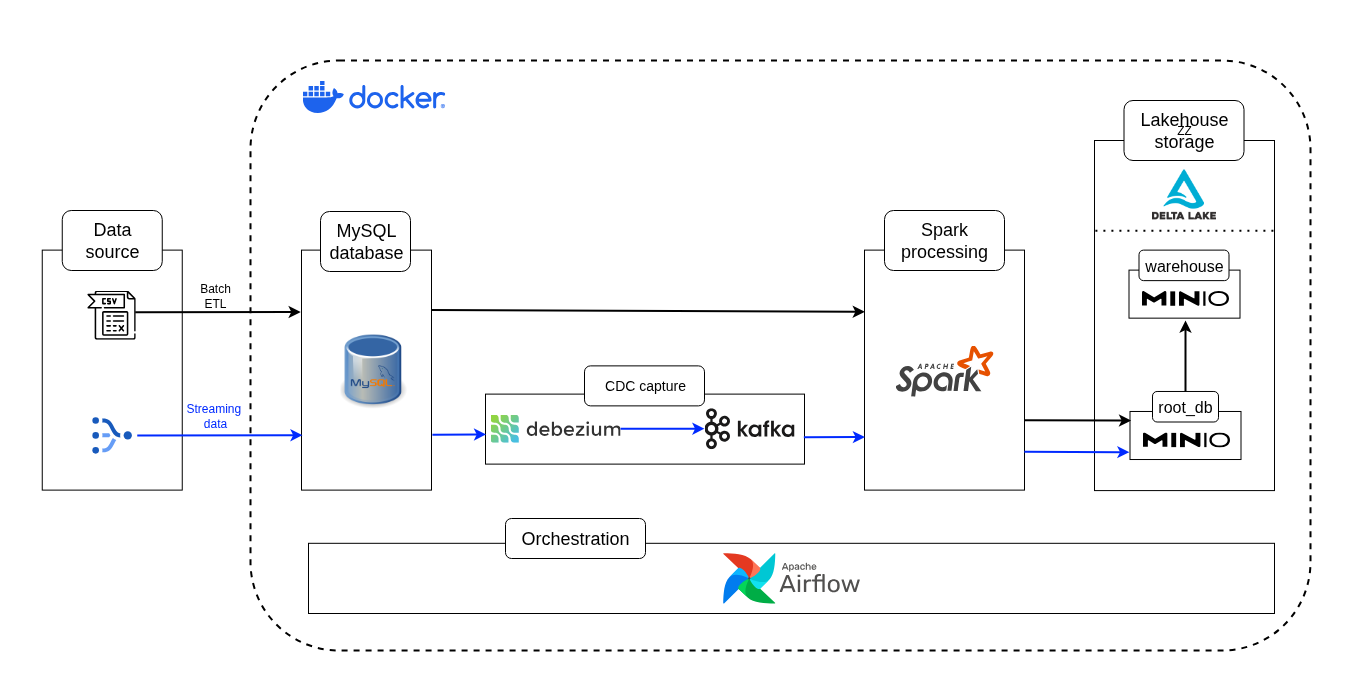
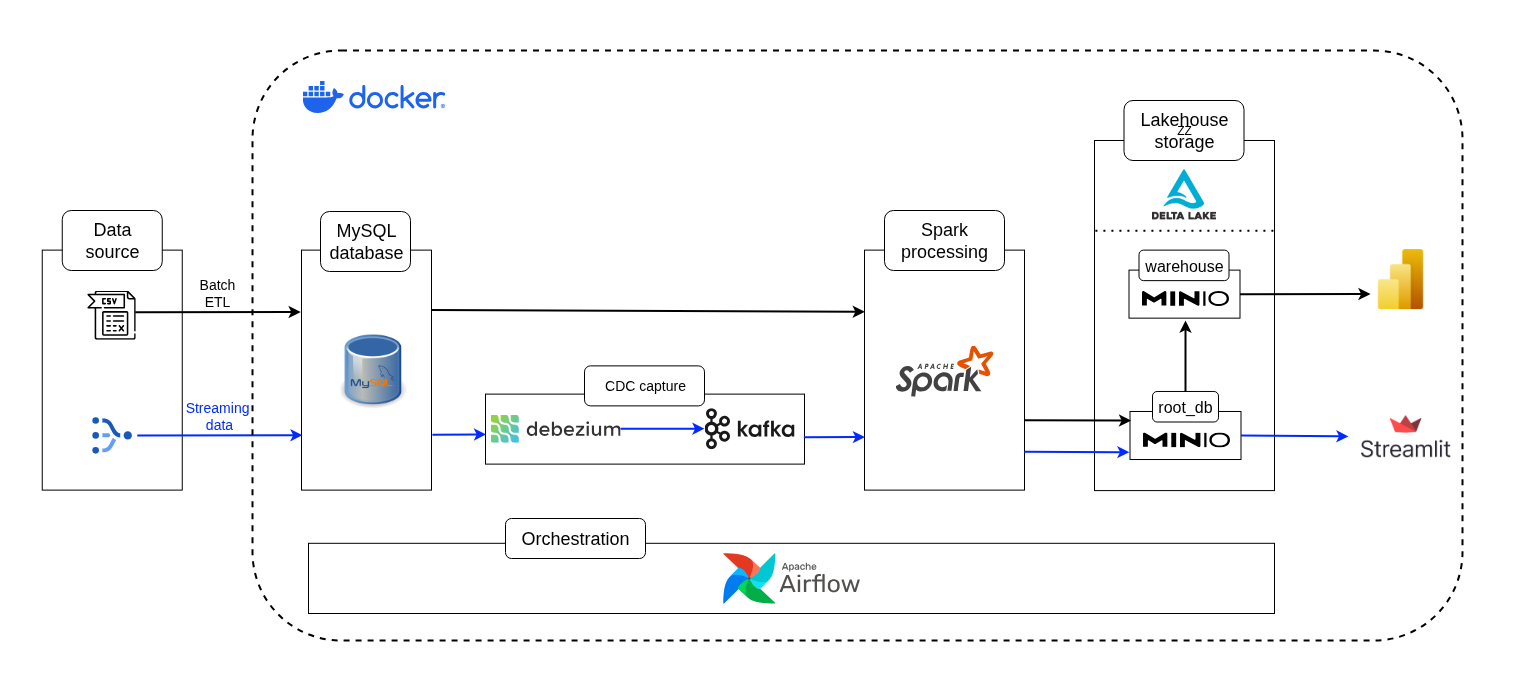
modify README

diff --git a/README.md b/README.md
@@ -55,6 +55,7 @@ Streaming Data ──▶ MySQL ──▶ Debezium ──▶ Kafka ──▶ Spar
 | **Data Lake** | MinIO, Delta Lake | latest, 3.1.0 | Stores financial data as structured, versioned Delta tables. |
 | **Auxiliary Tools** | Kafka UI, MinIO Console | latest | Web UIs for managing and monitoring Kafka and MinIO. |
 | **Workflow Orchestration** | Apache Airflow | 2.8+ | Orchestrates and automates the finance analytics workflows, including batch processing and infrastructure management. |
+| **Dashboard** | Streamlit | latest | Interactive web application for real-time financial analytics and visualizations. |
 
 ## 5. Directory Structure
 ```
@@ -66,6 +67,9 @@ Streaming Data ──▶ MySQL ──▶ Debezium ──▶ Kafka ──▶ Spar
 │   └── database/            # Database schemas, scripts, and initialization data.
 │       ├── schema.sql       # SQL statements for the initial database schema.
 │       └── scripts/         # Database maintenance and initialization scripts.
+│   └── streamlit/           # Interactive financial dashboard application.
+│       ├── app.py          # Main Streamlit application for real-time analytics.
+│       └── Dockerfile      # Docker configuration for Streamlit service.
 ├── src/                     # Source code for data processing.
 │   └── stream_processing/   # Contains Python scripts for Spark streaming.
 │       └── rootdb_stream.py # The main Spark job; processes financial data streams.
@@ -192,6 +196,12 @@ Once all services are running, you can access the various UIs from your local ma
 -   **Credentials:** `root` / `root123`
 -   **Description:** Connect directly to the source MySQL database to view or modify financial data.
 
+### Streamlit Dashboard (Financial Analytics)
+-   **URL:** `http://localhost:8501`
+-   **Description:** Interactive dashboard displaying real-time financial metrics, transaction volumes, and customer analytics from the Delta Lake.
+
+![Streamlit UI](images/streamlit.png)
+
 ## 8. Troubleshooting Common Issues
 - **`pull access denied` error during `docker compose up`:**
   - This is usually caused by Docker Hub's rate limiting. The most reliable fix is to create a free Docker Hub account and run `docker login` in your terminal.
@@ -208,7 +218,6 @@ This financial analytics platform can be extended with many real-world applicati
 -   **Customer Behavior Analytics:** Analyze spending patterns and provide personalized financial insights.
 -   **Risk Assessment Engine:** Calculate real-time credit risk scores based on transaction history.
 -   **Regulatory Reporting:** Automate compliance reporting with real-time data aggregation.
--   **Interactive Financial Dashboard:** Add Streamlit or similar for real-time financial visualizations.
 -   **Multi-tenant Architecture:** Support multiple financial institutions with isolated data processing.
 
 
